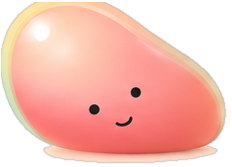
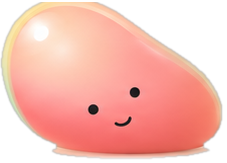
Mochi images : détourage resserré (liseré rogné, ombre au sol retirée, base estompée)

diff --git a/src/components/mochi-img.js b/src/components/mochi-img.js
@@ -6,7 +6,7 @@ import React, { useEffect, useState } from 'react';
 import { Image, Pressable } from 'react-native';
 import Animated, { useSharedValue, useAnimatedStyle, withRepeat, withTiming, withSpring, withSequence, Easing } from 'react-native-reanimated';
 
-export const MOCHI_RATIO = 167 / 232; // hauteur / largeur du canevas
+export const MOCHI_RATIO = 163 / 227; // hauteur / largeur du canevas
 const FRAMES = { // pas de « + » ni de « - » dans les noms : Metro ne résout pas ces fichiers
   '-3': require('../../assets/mochi/leanm3.png'), '-2': require('../../assets/mochi/leanm2.png'), '-1': require('../../assets/mochi/leanm1.png'),
   '0': require('../../assets/mochi/leanp0.png'),
